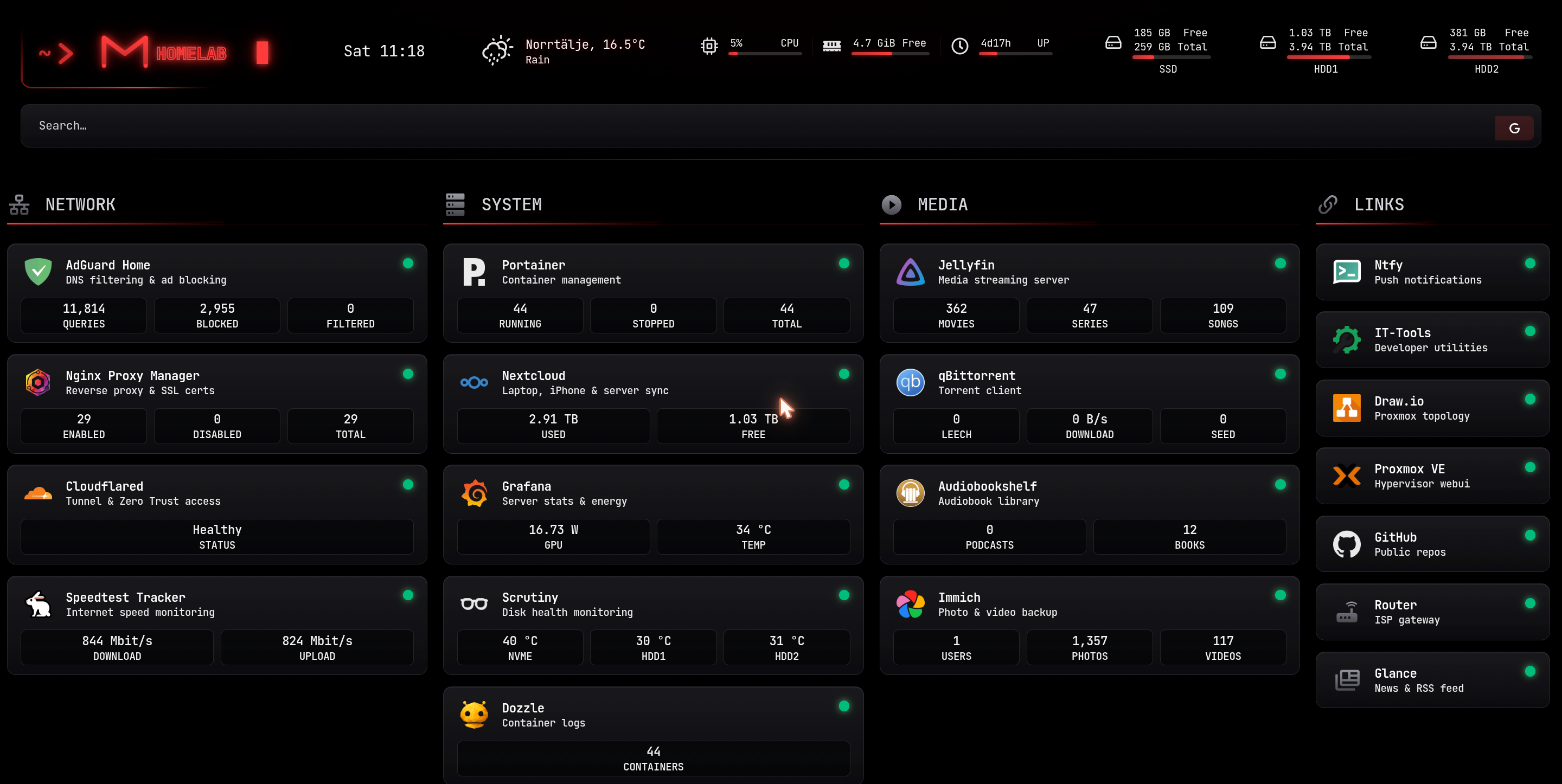
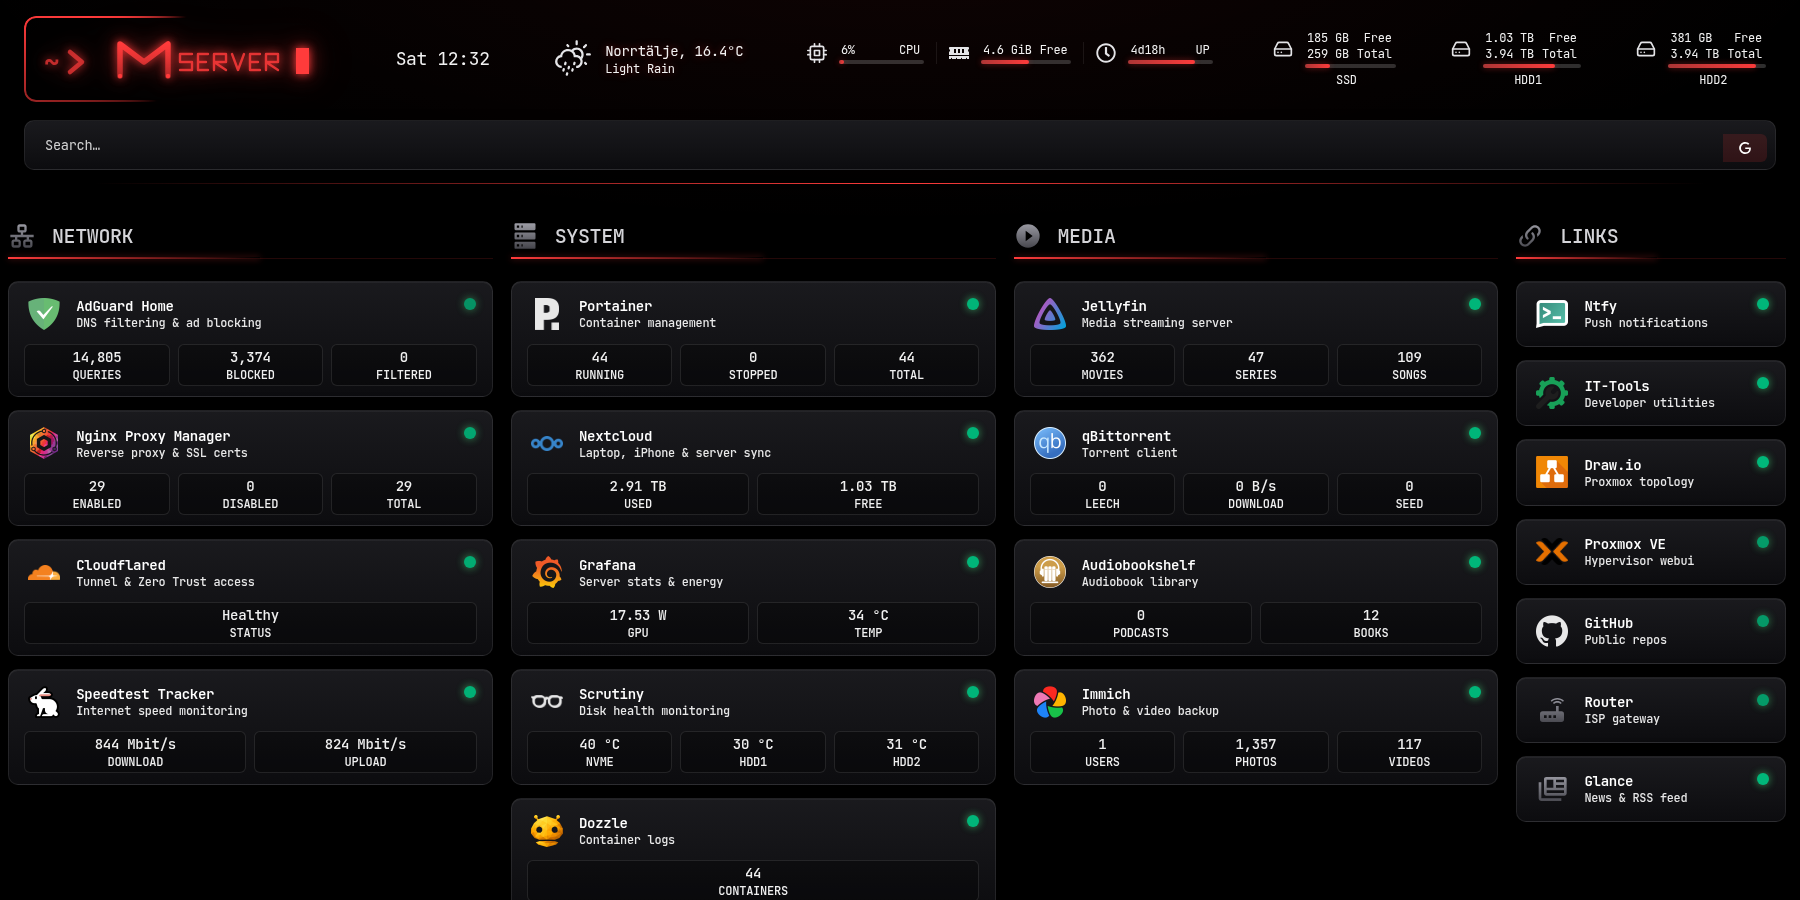
docs(img): record the live dashboard at 1800 px with the real header

diff --git a/README.md b/README.md
@@ -65,7 +65,7 @@
 
 <p align="center">
   <img src="docs/img/homepage.gif" alt="Homepage dashboard scrolling from the header gauges through Network, System, Media and Links down to the *arr stack" width="900"/><br/>
-  <sub><b>Homepage</b> — recording of the live dashboard (2026-08-29): only the ISP label and one private card were changed in the DOM before capture. Still image: <a href="docs/img/homepage.png">homepage.png</a>.</sub>
+  <sub><b>Homepage</b> — recording of the live dashboard (2026-08-29). DOM-only sanitization: Router description → <i>ISP gateway</i>, GitHub description → <i>Public repos</i>, and one private Links card removed; the MSERVER header and Norrtälje weather were deliberately retained. Still image: <a href="docs/img/homepage.png">homepage.png</a>.</sub>
 </p>
 
 <p align="center">
@@ -92,7 +92,7 @@
 
 <p align="center"><sub>Terminal demos rendered 2026-08-29 with <code>vhs</code> from <code>scripts/demo/</code>, all 2000 px wide at the same font size (2× for high-DPI screens), each cropped to its content. The MOTD is a fixed snapshot of a real login on 2026-08-29; ntfy and killswitch use synthetic values, and the Suricata event in the alerting demo is not deployed in the current VM.</sub></p>
 
-> **What this is.** A sanitized public reference of a real, running homelab. The live configuration is the source of truth and lives in a private repository; this repo mirrors it with hostnames, domains and identifiers replaced. It is not drop-in reproducible — paths, secrets and hardware assumptions belong to one specific box.
+> **What this is.** A sanitized public reference of a real, running homelab. The live configuration is the source of truth and lives in a private repository; this repo mirrors it with sensitive hostnames, domains and identifiers replaced, apart from the deliberate display-name exception below. It is not drop-in reproducible — paths, secrets and hardware assumptions belong to one specific box.
 >
 > **Sanitization policy.** RFC1918 addressing (`192.168.1.0/24`, `10.10.10.0/24`), the network topology and the host's display name *MSERVER* (dashboard logo, login banner) are published deliberately — they are unreachable from outside and carry no identity. The VM is called `docker-host` in the text. Domains, account names, MAC addresses, disk serials/WWNs, device identifiers, e-mail addresses and the ISP's name are replaced or removed.
 

diff --git a/homepage/README.md b/homepage/README.md
@@ -5,7 +5,7 @@
 <p align="center">
   <img src="../docs/img/homepage.png" alt="Homepage dashboard — header with system gauges, then Network, System, Media and Links groups; *arr stack below" width="780"/>
   <br/>
-  <sub>Homepage — sanitized recreation from live-verified output (2026-08-28): hostname, location and ISP labels were replaced in the DOM before capture.</sub>
+  <sub>Homepage — live dashboard capture (2026-08-29). DOM-only sanitization: Router description → <i>ISP gateway</i>, GitHub description → <i>Public repos</i>, and one private Links card removed; the MSERVER header and Norrtälje weather were deliberately retained.</sub>
 </p>
 
 ## Files
